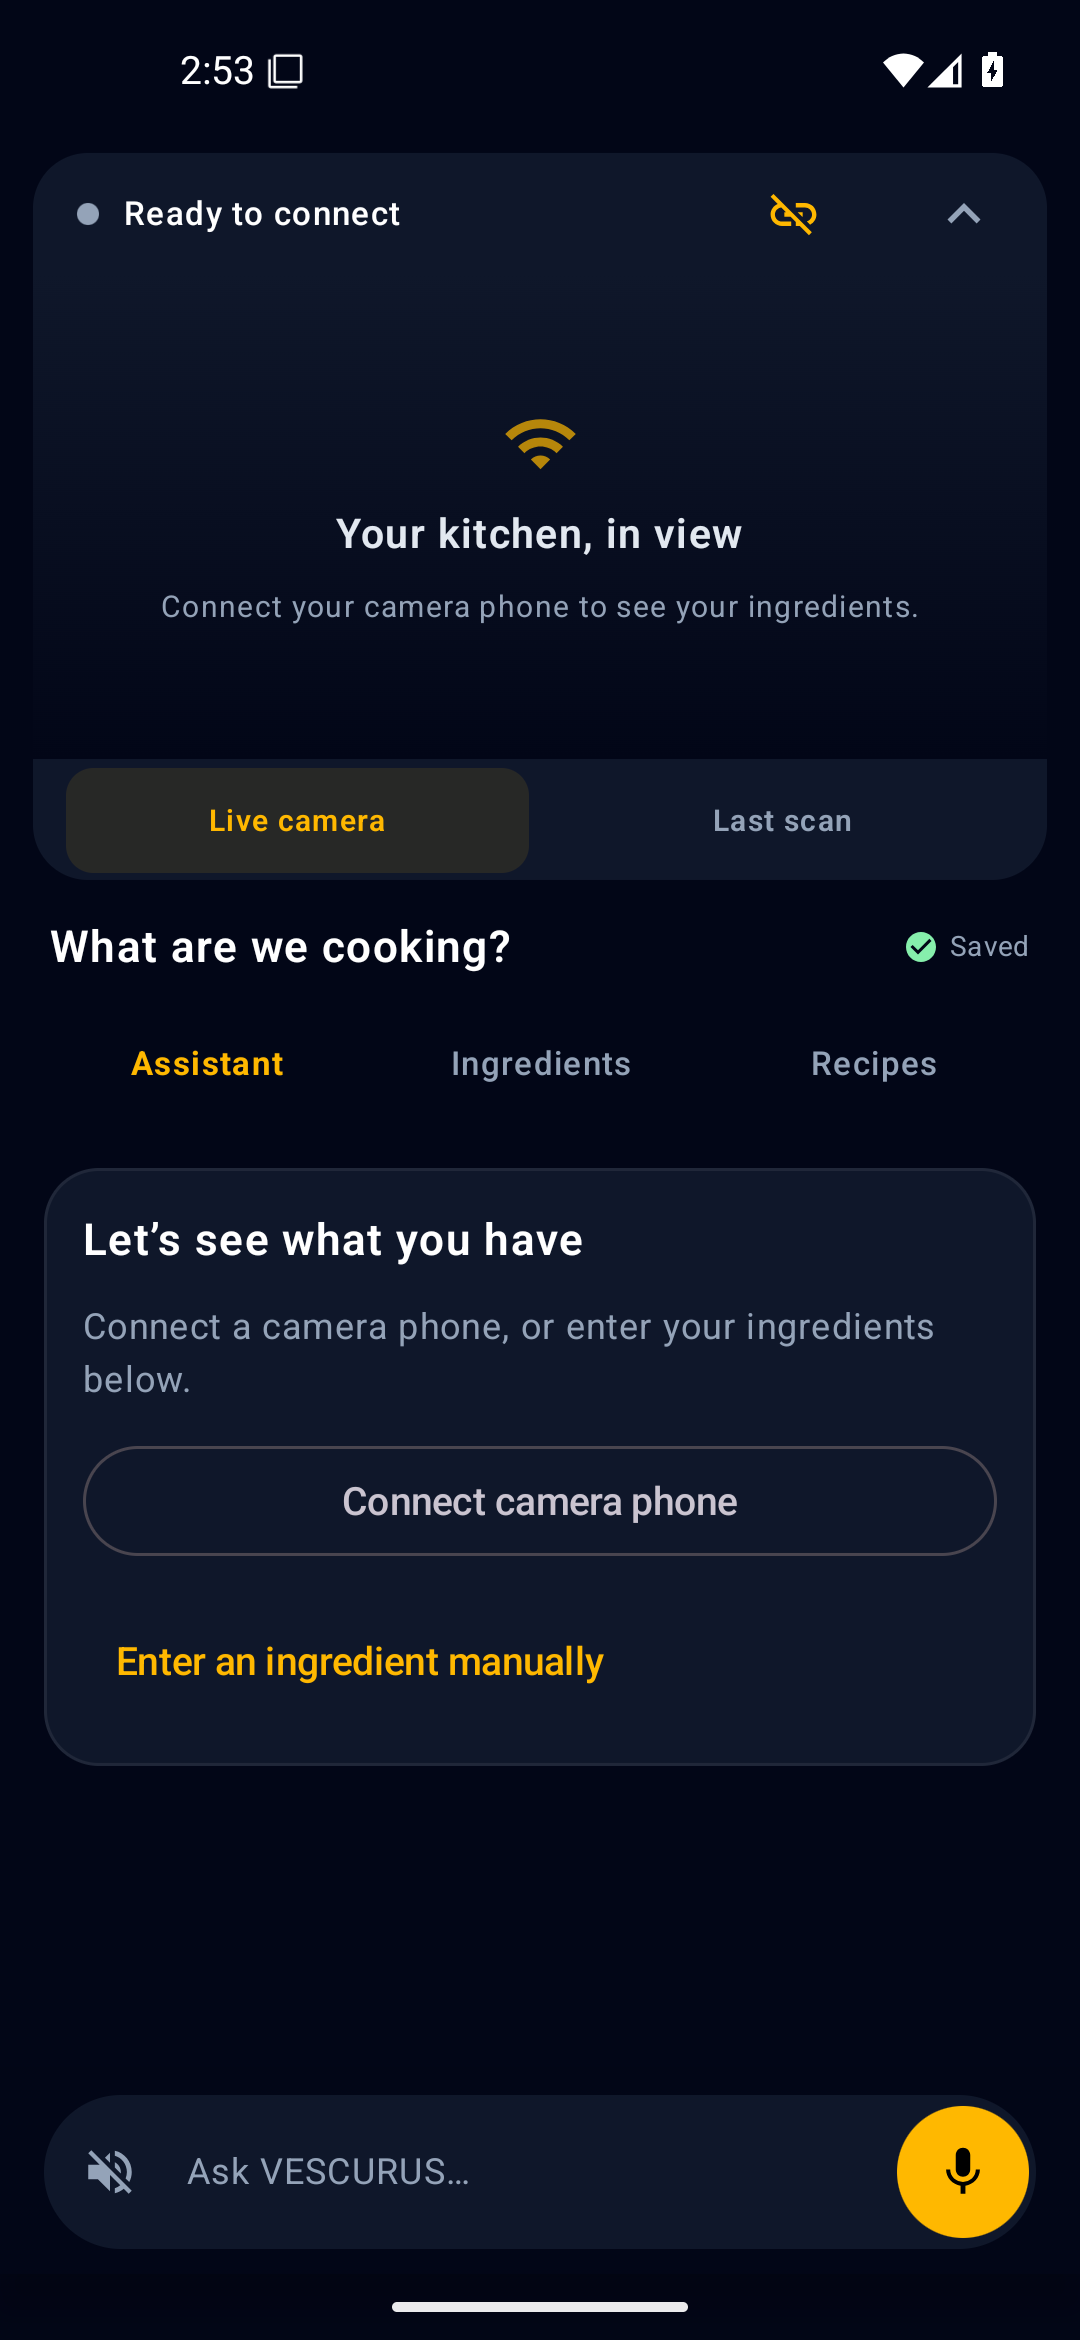
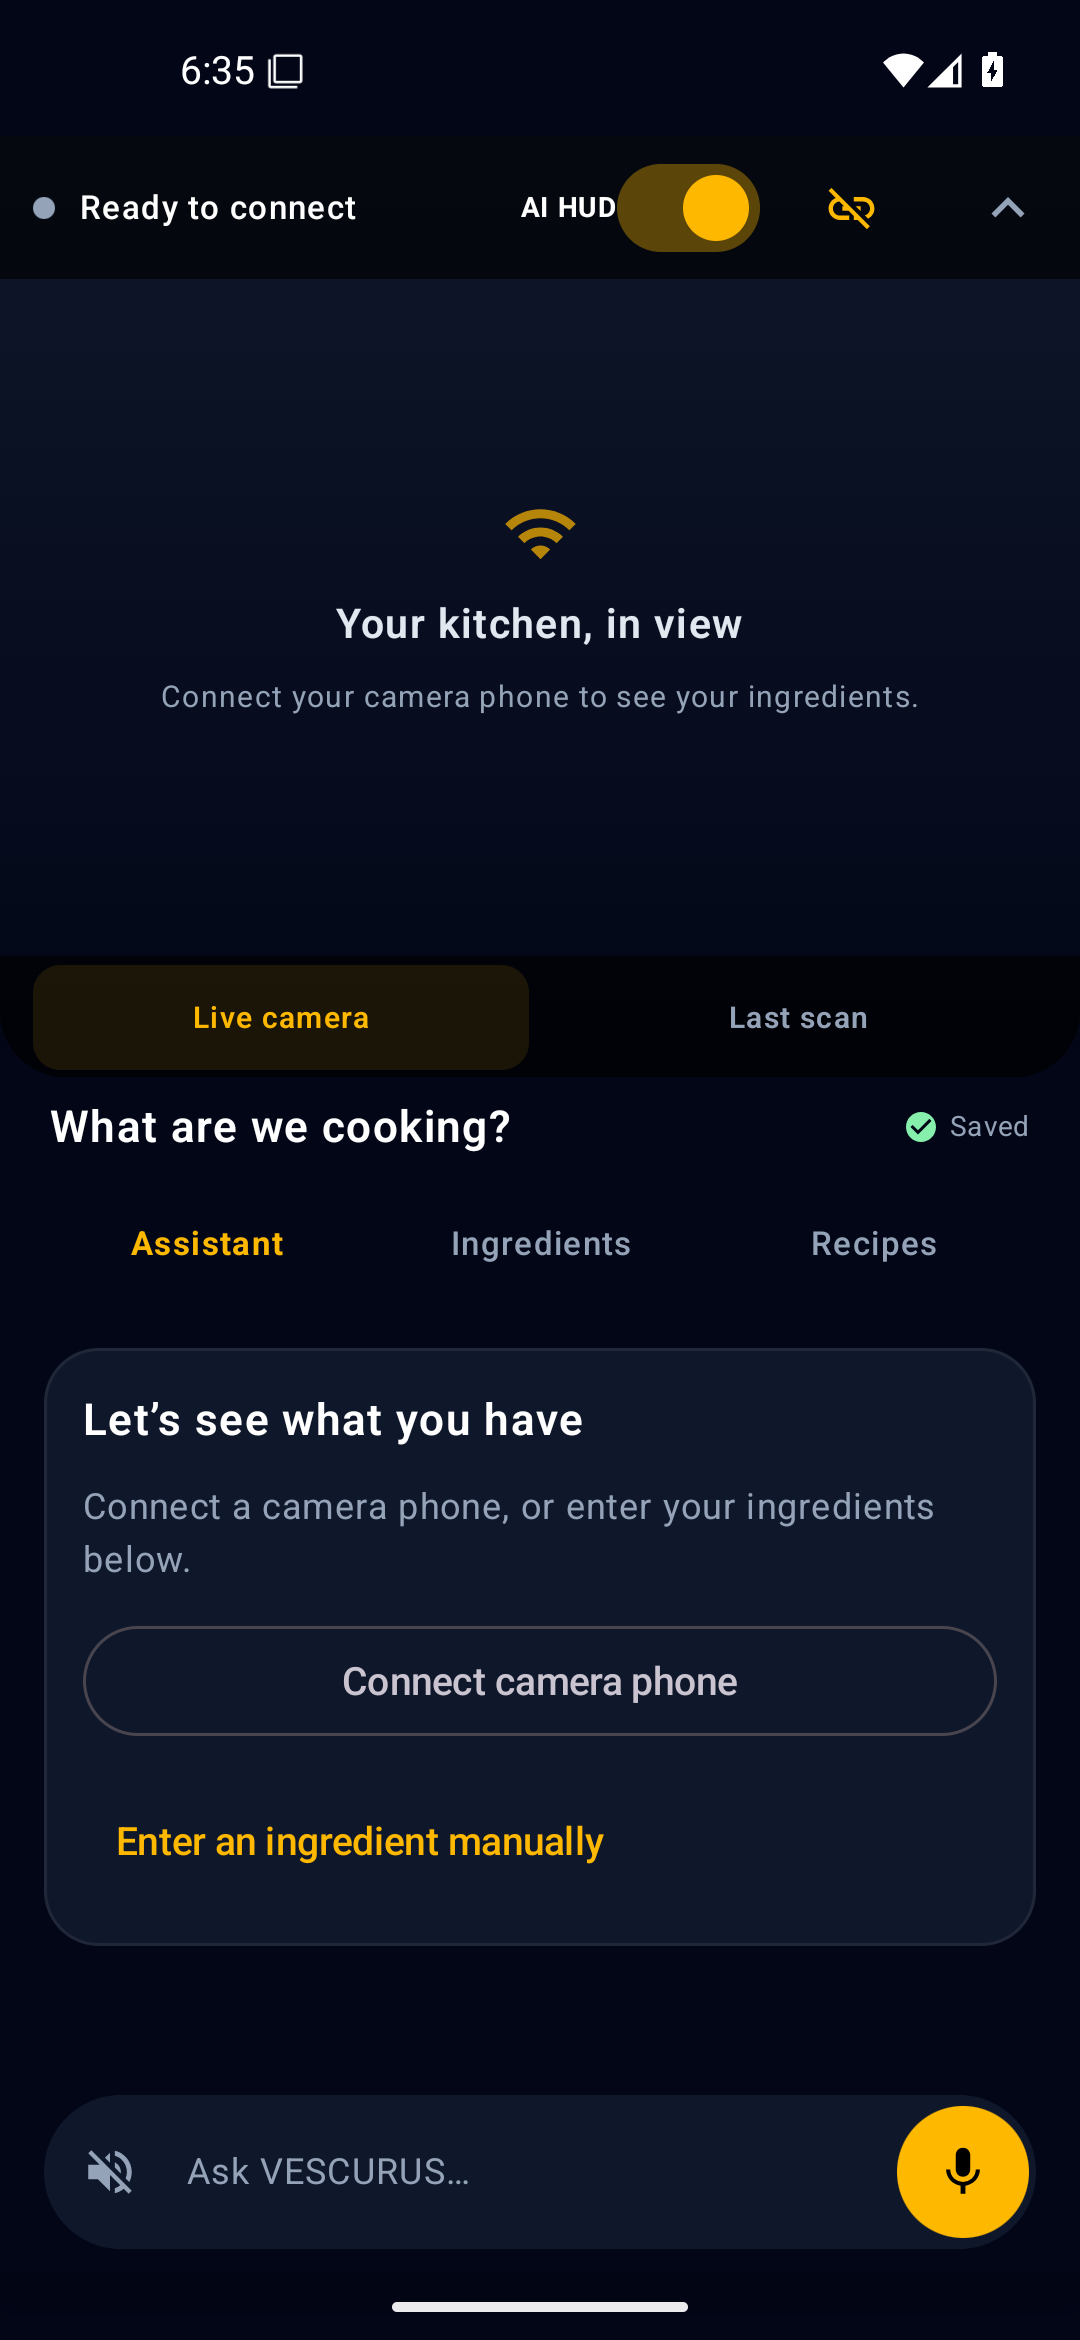
docs: record restored branding and portrait-landscape verification

diff --git a/docs/EXHIBITION_HANDOVER.md b/docs/EXHIBITION_HANDOVER.md
@@ -89,8 +89,20 @@ not presented as Spoonacular results or measured food intake.
 
 The current changes start from remote `759002f`, preserving its startup entrance,
 Kotlin/Compose architecture, recent conversation context and session/CV integrity.
-The camera and chat remain central. The contained camera uses about one third of
-the idle viewport, collapses for the keyboard and keeps Live/Last scan separate.
+The startup now uses the user's original `VESCURUS_with_text_to_the_right.svg`
+(source retained in `app/src/main/artwork/`). Its paths and Cambria wordmark are
+outlined into `vescurus_startup_brand.xml`; no replacement logo or rendered glow.
+The launch window, system bars and entrance background are pure black. The
+original 0.8→1 zoom/fade (1000 ms), 2200 ms hold and 600 ms transition remain.
+The full lockup fits the safe viewport in either orientation; no duplicate title
+or tagline is added.
+The camera and chat remain central. The restored full-width camera uses about
+44% of the idle portrait viewport (36% while cooking), with rounded lower corners
+and overlaid controls. The visible **AI HUD** switch shows/hides detection boxes
+on the matching Last scan image; it does not put stale boxes over live video.
+In landscape (at least 600 dp wide), camera and assistant use side-by-side panes.
+The camera collapses for the keyboard; draft text and HUD state survive viewport
+changes. Portrait and landscape keep Live/Last scan separate.
 Tabs and navigation have less visual weight;
 the pre-cooking recipe is a compact card. Ingredient correction/removal live
 inside the overflow menu; recording an ingredient and confirming physical transfer
@@ -235,7 +247,7 @@ in the final verification below; the engine change is not itself proof of succes
 
 ### Final verification gate
 
[2 lines of base64/hex data omitted]
 
 Last physically installed debug APK SHA-256 (both devices, before disconnection):
[1 lines of base64/hex data omitted]
@@ -253,12 +265,23 @@ The preparation-only revision/audit correction, later UI refinement and recipe-j
 ownership fixes were added afterward. The user intentionally disconnected both
 phones; the newest APK needs later physical installation/recheck. Two additional
 Android regression cases cover late recipe replies and starting cooking while a
-planner is pending. The [successful GitHub gate](https://github.com/KVS-Surya-Teja/VESCURUS_expo/actions/runs/45034882959)
-verified application revision `b9fb8844c2bf9559783bdb0aec91dc4931959e5a`: **53 JVM
-tests; 8 Android tests passed, 1 optional installed-voice test skipped** on API 35;
+planner is pending. The [successful GitHub gate](https://github.com/KVS-Surya-Teja/VESCURUS_expo/actions/runs/45055493437)
+verified application revision `6a153938b088f586ebf3cd694a0c31a621ca9415`: **53 JVM
+tests; 11 Android tests passed, 1 optional installed-voice test skipped** on API 35;
 app/test APK builds and lint completed with 0 errors. The real voice generation
 pass belongs to Samsung, not that emulator skip. The downloaded CI artifact was
[2 lines of base64/hex data omitted]
+
+Three additional Android tests exercise 360×720 and 800×360 dp configurations:
+startup/role selection/Guide, camera and AI HUD plus retained chat draft and ingredient
+actions, and Track/Settings navigation. These are controlled Compose viewport tests,
+not physical rotation or camera sensor checks on the disconnected phones. The
+viewport-only fixture captures include the host emulator's unused white area and
+system bars; those areas are outside the tested app viewport.
+[Startup portrait fixture](ui-review/startup-portrait-ci.png),
+[startup landscape fixture](ui-review/startup-landscape-ci.png),
+[Cook landscape fixture](ui-review/cook-landscape-ci.png),
+[Guide landscape fixture](ui-review/guide-landscape-ci.png).
 
 Latest native CI screens, using real Compose components and isolated fixtures:
 [Cook](ui-review/cook-current-ci.png),
